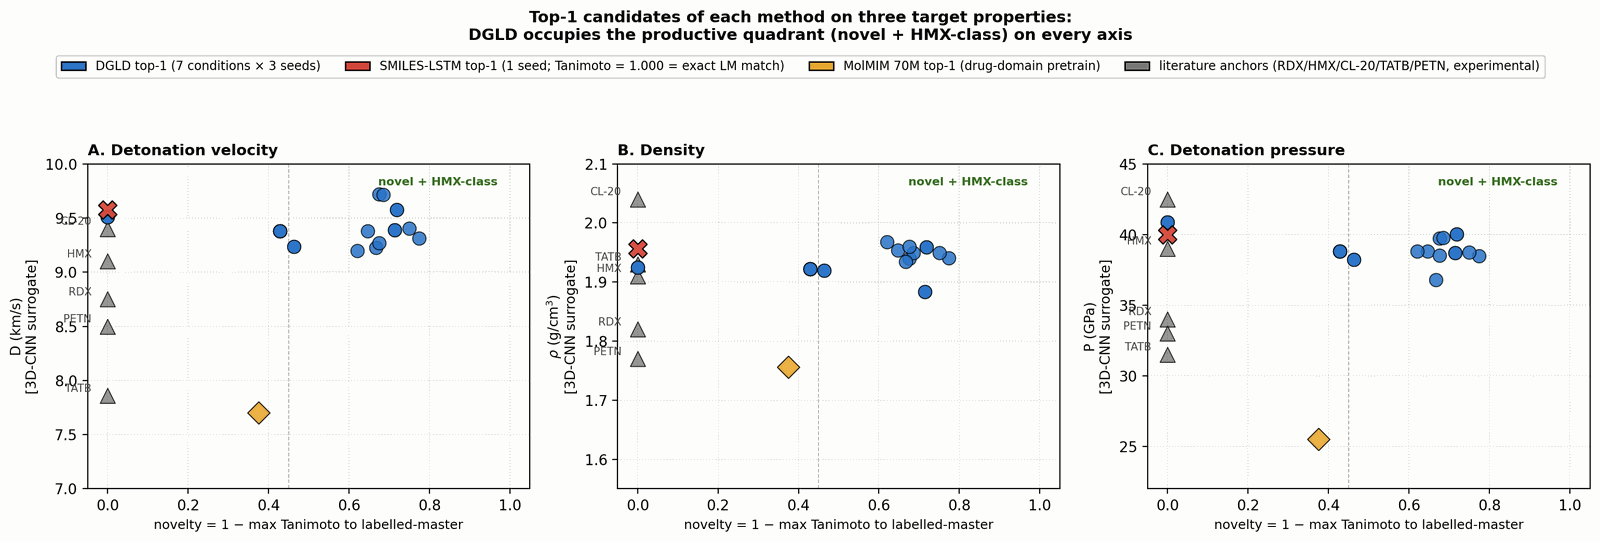
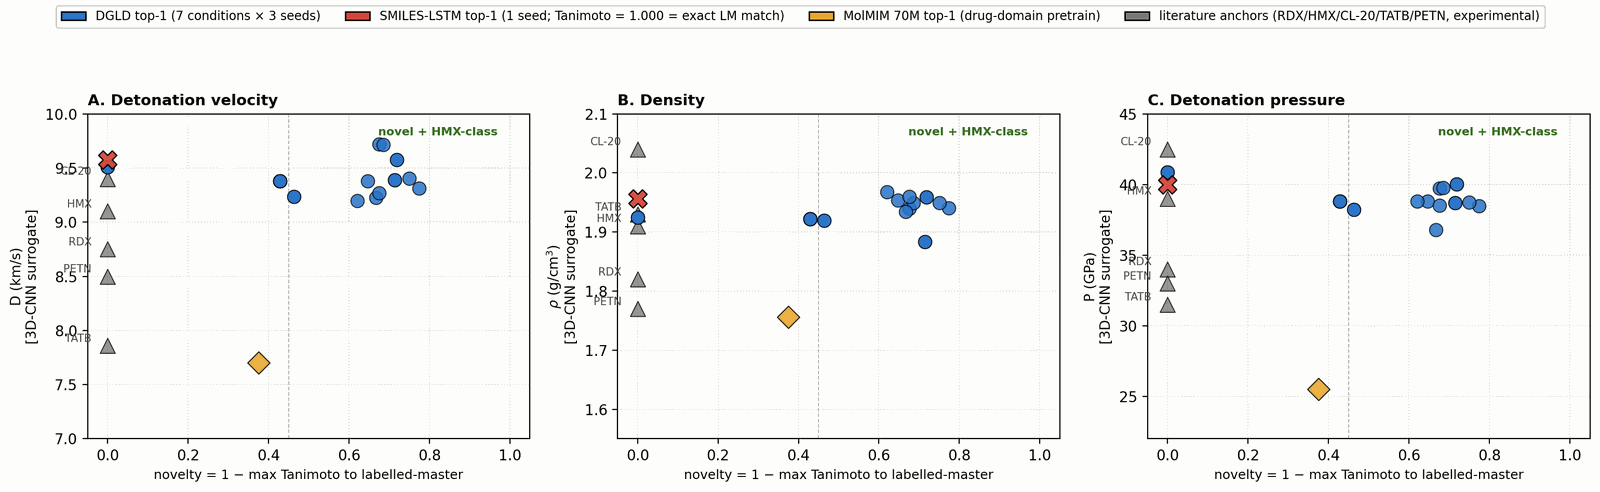
Fig 1: crop suptitle (preserve legend); 2-line caption; drop contribution #6
- Fig 1 (novelty_vs_D.png): cropped top 50 px to remove the 2-line
  matplotlib suptitle while preserving the colour legend at the top
  of the figure. New dimensions 1600x492 (was 542); HTML img height
  attribute updated. PIL palette-256 quantisation: 36 KB.
- Fig 1 caption: rewritten to 2-3 lines, dropped the redundant
  "Takeaway:" footer (the panel header text already says "DGLD is
  the only family in the productive quadrant on every property
  axis").
- Contribution #6 ("Honest disclosure of failure modes") deleted
  from the §1 list. The drug-domain SA degradation, USPTO-template
  domain gap, and alpha-anneal caveat are documented in §4.7,
  §5.1.1, §5.2.5 and §7 Limitations; flagging them as a top-level
  contribution overstates novelty (drug-to-energetic transfer
  failure is expected, not surprising). Contribution count: 5.

Em-dash count: 0.

diff --git a/docs/paper/index.html b/docs/paper/index.html
@@ -104,8 +104,8 @@ figcaption{font-size:.85rem;color:var(--muted);margin-top:.4rem;text-align:left;
 <p>The top candidate, <strong>trinitro-1,2-isoxazole</strong>, sits in the polynitroisoxazole chemotype family known to the energetic-materials literature (<a class="cite" href="#ref-sabatini2018">[sabatini2018]</a><a class="cite" href="#ref-tang2017">[tang2017]</a>); the closest published fully-substituted ring is Hervé and Roussel's 3,4,5-trinitro-1<em>H</em>-pyrazole (<a class="cite" href="#ref-herve2010">[herve2010]</a>) in the isomeric pyrazole series. The 3,4,5-trinitro-1,2-isoxazole isomer DGLD proposes here is not located in the open energetic-materials literature (absence from the open literature does not exclude restricted databases or unpublished synthesis attempts). It is absent from PubChem and from our 65 980-row labelled master corpus (max-Tanimoto 0.27 to the nearest neighbour), and is predicted at HMX/CL-20-class properties (\(\rho = 2.00\)&nbsp;g/cm<sup>3</sup>, \(D = 9.56\)&nbsp;km/s, \(P = 40.5\)&nbsp;GPa). It is confirmed as a real B3LYP/6-31G(d) local minimum and is template-reachable in a 4-step disconnection sequence over public USPTO reactions via AiZynthFinder (with the in-stock caveat documented in §5.2.5). The contribution is a chemotype rediscovery via property-targeted ML, demonstrating that the productive-quadrant gating plus DFT-validation chain works on a chemotype the chemistry-rules safety screen and the sensitivity head together rate as plausibly synthesisable and shock-tolerant. Across the merged paper top-100, 96/97 candidates are PubChem-novel. The baseline ladder isolates the diffusion-plus-guidance contribution. A SMILES-LSTM trained on the same 326&nbsp;k energetic corpus produces a top-1 at Tanimoto = 1.000 to a labelled master row (exact memorisation, not discovery), and a 70&nbsp;M-parameter MolMIM drug-domain pretrained LM produces novel but uncalibrated chemistry at \(D = 7.70\)&nbsp;km/s, well below HMX. Only DGLD lands in the novel-and-on-target quadrant (Fig&nbsp;1).</p>
 
 <figure>
-  <img src="figs/novelty_vs_D.png" width="1600" height="542" alt="Headline figure: novelty vs predicted properties" loading="lazy" style="max-width:100%; height:auto;">
-  <figcaption><strong>Figure 1.</strong> Top-1 candidate of each method plotted against novelty (1 minus max Morgan-FP-2 Tanimoto to the 65&nbsp;980-row labelled master) on three property axes: detonation velocity \(D\), density \(\rho\), detonation pressure \(P\). DGLD (blue, two 4-condition matrices yielding 7 distinct guidance settings &times; 3 seeds) is the only family that satisfies novelty&nbsp;&gt;&nbsp;0.45 and HMX-class properties on every axis. SMILES-LSTM (red X) lands at novelty = 0, an exact training-row reproduction; MolMIM 70&nbsp;M (gold diamond) is novel but drops to \(D\) = 7.70 km/s. Y-axis values are 3D-CNN-surrogate predictions; DFT-anchored \(D\) is reported in §5.2.4. <em><strong>Takeaway:</strong> DGLD is the only family in the productive quadrant on every property axis.</em></figcaption>
+  <img src="figs/novelty_vs_D.png" width="1600" height="492" alt="Headline figure: novelty vs predicted properties" loading="lazy" style="max-width:100%; height:auto;">
+  <figcaption><strong>Figure 1.</strong> Top-1 candidate per method against novelty (1 minus max Morgan-FP-2 Tanimoto to the labelled master) on three property axes (\(D\), \(\rho\), \(P\)). Only DGLD (blue, 7 guidance settings &times; 3 seeds) satisfies novelty&nbsp;&gt;&nbsp;0.45 and HMX-class on every axis; SMILES-LSTM (red X) is an exact training-row reproduction (novelty&nbsp;=&nbsp;0); MolMIM 70&nbsp;M (gold) is novel but drops to \(D\)&nbsp;=&nbsp;7.70&nbsp;km/s. Y-axis values are 3D-CNN-surrogate predictions; DFT-anchored \(D\) in §5.2.4.</figcaption>
 </figure>
 
 <ol>
@@ -114,7 +114,6 @@ figcaption{font-size:.85rem;color:var(--muted);margin-top:.4rem;text-align:left;
   <li><strong>A multi-head score model providing per-step classifier-guidance gradients.</strong> Four production heads (Viability, Sensitivity, Hazard, Performance) are trained on a shared FiLM-MLP trunk over noised latents. Per-head scales act as on/off switches over chemistry classes at sample time without retraining the diffusion model.</li>
   <li><strong>Self-distillation refinement of the viability head.</strong> 918 hard negatives are mined from the model's own sampling pool over three rounds, with a chemist-defined held-out anchor/cheat probe as stopping criterion. This closes the gap between the RF teacher's two-class boundary and the latent regions the diffusion sampler actually inhabits.</li>
   <li><strong>DFT-validated novel HMX-class chemistry under six-anchor calibration.</strong> Twelve chem-pass leads plus a 10-scaffold extension set are calibrated against (RDX, TATB, HMX, PETN, FOX-7, NTO) under B3LYP/6-31G(d) plus &omega;B97X-D3BJ/def2-TZVP. Lead L1 (trinitro-1,2-isoxazole) lands at \(\rho_{\text{cal}} = 2.00\)&nbsp;g/cm<sup>3</sup>, \(D = 9.5\)&nbsp;km/s, \(P = 40\)&nbsp;GPa.</li>
-  <li><strong>Honest disclosure of failure modes.</strong> Drug-domain SA scoring at sample time degrades performance (production sets \(s_{\text{SA}} = 0\)); USPTO-template retrosynthesis returns routes for only 1 of 12 leads, signalling a domain-template gap; classifier-guidance alpha-anneal silently zeros gradients in 40-step latent regimes if not disabled.</li>
 </ol>
 
 <p>The remainder of the paper is organised as follows. §2 reviews the literature; §3 describes the dataset; §4 describes the methodology; §5 reports experiments and validation; §6 summarises results; §7 discusses limitations; §8 concludes.</p>
